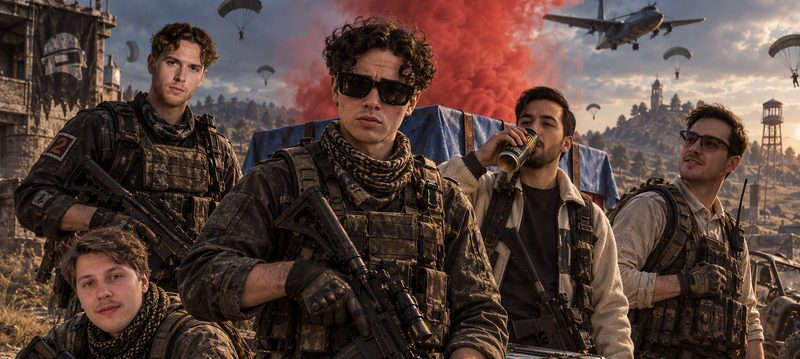
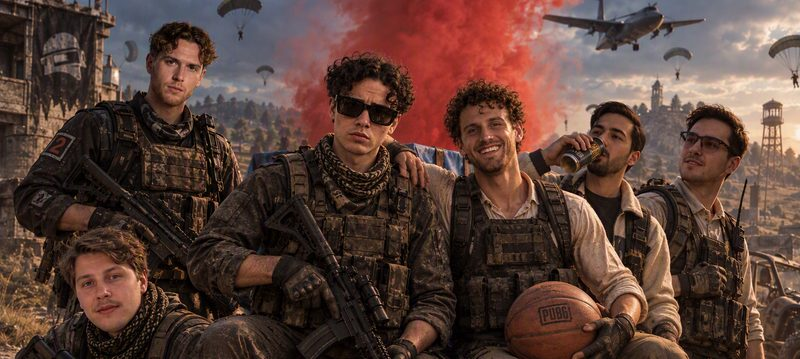
Add files via upload

diff --git a/index.html b/index.html
@@ -10,7 +10,7 @@
 <meta property="og:title" content="Truppen – PUBG-statistik">
 <meta property="og:description" content="Vem är egentligen bäst i gänget? Ranking, form, duos, vapen och skamvrån i PUBG.">
 <meta property="og:url" content="https://digestivemarcus.github.io/pubg-stats/">
-<meta property="og:image" content="https://digestivemarcus.github.io/pubg-stats/og.jpg">
+<meta property="og:image" content="https://digestivemarcus.github.io/pubg-stats/og.jpg?v=2">
 <meta property="og:image:width" content="1200">
 <meta property="og:image:height" content="630">
 <meta property="og:image:type" content="image/jpeg">
@@ -46,7 +46,7 @@
   .hero { position: relative; margin: 0 -1.25rem; }
   .hero-img { display: block; width: 100%; height: auto; aspect-ratio: 1536 / 690; object-fit: cover; }
   .hero::before { content: ""; position: absolute; left: 0; right: 0; top: 0; aspect-ratio: 1536 / 690; z-index: 1; pointer-events: none;
-    background: linear-gradient(to bottom, rgba(43,51,44,0) 82%, var(--terrain) 100%); }
+    background: linear-gradient(to bottom, rgba(43,51,44,0) 90%, var(--terrain) 100%); }
   .hero-text { position: relative; z-index: 2; margin-top: -1rem; padding: 0 1.25rem;
     display: flex; align-items: center; gap: clamp(1rem, 3vw, 1.75rem); }
   .hero-text img { width: clamp(4.5rem, 14vw, 7.5rem); height: auto; flex: none; border-radius: 18%; box-shadow: 0 6px 20px rgba(0,0,0,.45); }
@@ -352,7 +352,7 @@
 <aside class="side"><div class="status" id="statusSide" aria-live="polite"></div><nav id="sideNav" aria-label="Innehåll"></nav></aside>
 <main>
   <header class="hero">
-    <img class="hero-img" src="banner.jpg" srcset="banner-800.jpg 800w, banner.jpg 1536w" sizes="(max-width: 64rem) 100vw, 64rem"
+    <img class="hero-img" src="banner.jpg?v=2" srcset="banner-800.jpg?v=2 800w, banner.jpg?v=2 1536w" sizes="(max-width: 64rem) 100vw, 64rem"
          alt="Gänget i full PUBG-utrustning framför en airdrop" width="1536" height="690">
     <div class="status status-top" id="statusTop" aria-live="polite"></div>
     <div class="hero-text">
